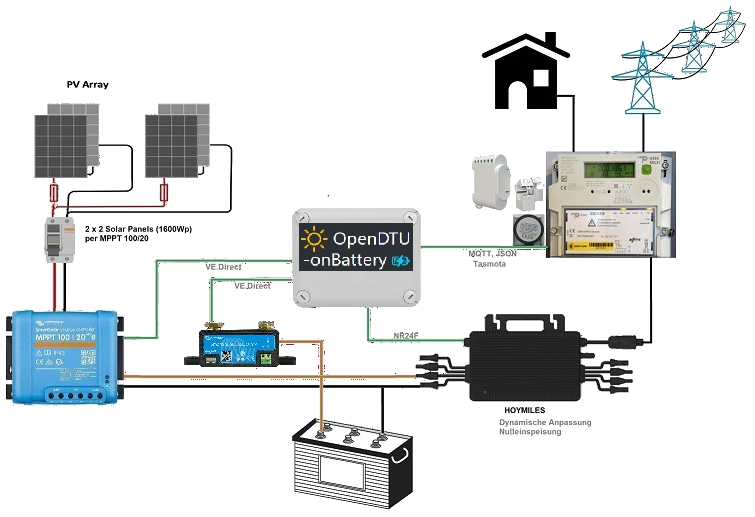
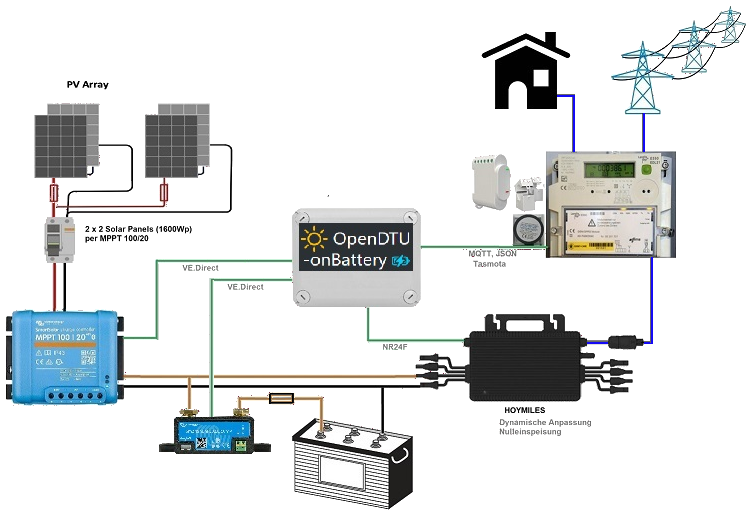
Speicher.md OpenDTU-OnBattery: Bild Verbesserung, SmartShunt optional

diff --git a/Solar/Speicher.md b/Solar/Speicher.md
@@ -34,7 +34,7 @@ lang: de
         - [SSG-Speicherlösungen im Eigenbau](#Eigenbau)
           - [Implementierung der Speicher-Regelung](#Regelungsimplementierung)
           - [Betrieb eines Mikrowechselrichters an einer Batterie](#Batterie-WR)
-          - [Einfache und günstige Lösung: OpenDTU-OnBattery](#OpenDTU-OnBattery)
+          - [Relativ einfache und günstige Lösung: OpenDTU-OnBattery](#OpenDTU-OnBattery)
           - [Weiteres Beispiel für DC-gekoppelten Speicher](Bsp.md#SSG-DC-gekoppelt)
 
           - [Ladung des Stromspeichers](#Ladung)
@@ -1112,7 +1112,7 @@ Stattdessen kann man sehr gut z.B. einen Shelly Plus 1PM verwenden,
 welcher verlässliche Daten im Sekundentakt bietet.
 
 
-#### Einfache und günstige Lösung: OpenDTU-OnBattery {#OpenDTU-OnBattery}
+#### Relativ einfache und günstige Lösung: OpenDTU-OnBattery {#OpenDTU-OnBattery}
 
 Inzwischen gibt es eine relativ einfache und kostengünstige Möglichkeit, mit
 wenig Arbeitsaufwand und ohne eigene Programmierung zu einer recht effizienten
@@ -1131,7 +1131,7 @@ statt irgendwo anders z.B. Home Assistant oder iobroker laufen lassen zu müssen
 ([Shelly (Pro) 3EM](SV.md#Shelly3EM), Eastron SDM oder Stromzähler-Lesekopf mit
 [Tasmota](https://www.tasmota.info/)-Software) benötigt, um den aktuellen
 Leistungssaldo des Haushalts in Sekundenauflösung zu erhalten.
-* Die Ladung des Speichers erfolgt effizient mit DC-Kopplung,
+* Die Ladung des Speichers erfolgt (meist) effizient mit DC-Kopplung,
 und zwar über einen [Solar-Laderegler](Komp.md#Laderegler) von Victron,
 dessen [VE.Direct interface](
 https://www.victronenergy.com/live/vedirect_protocol:faq) zur Regelung benötigt
@@ -1139,6 +1139,9 @@ wird, weil sich damit die PV-Leistung abfragen lässt.
 Je nach der maximalen Gesamtspannung der hierbei meist in Reihe geschalteten
 PV-Module genügt teils schon ein BlueSolar 75/15 und ansonsten normalerweise
 ein 100/15 (der 100&nbsp;V Eingangsspannung verträgt).
+* Der auf dem Bild dargestellte [Victron SmartShunt](
+https://www.victronenergy.de/battery-monitors/smart-battery-shunt) dient der
+genauen Messung des Batterie-Ladezustandes usw., ist aber nicht nötigt.
 Die Batteriespannung muss für den (direkten) Anschluss des Wechselrichters
 mindestens 24&nbsp;V betragen, was von allen Victron-Varianten unterstützt wird.
 Für eine Batteriespannung von 48&nbsp;V eignet sich etwa der 100/20.
@@ -1947,5 +1950,5 @@ LocalWords: Delivered Latest Downgraded shelly emeter file status returned MYPV
 LocalWords: Zweirichtungszaehler issuecomment collect Notifications height ELWA
 LocalWords: Plugs comments January Settings ons configuration states excl comp
 LocalWords: sensor export float uksa tamorix custom firmware en Central zell TR
-LocalWords: 
+LocalWords: SmartShunt
 -->
